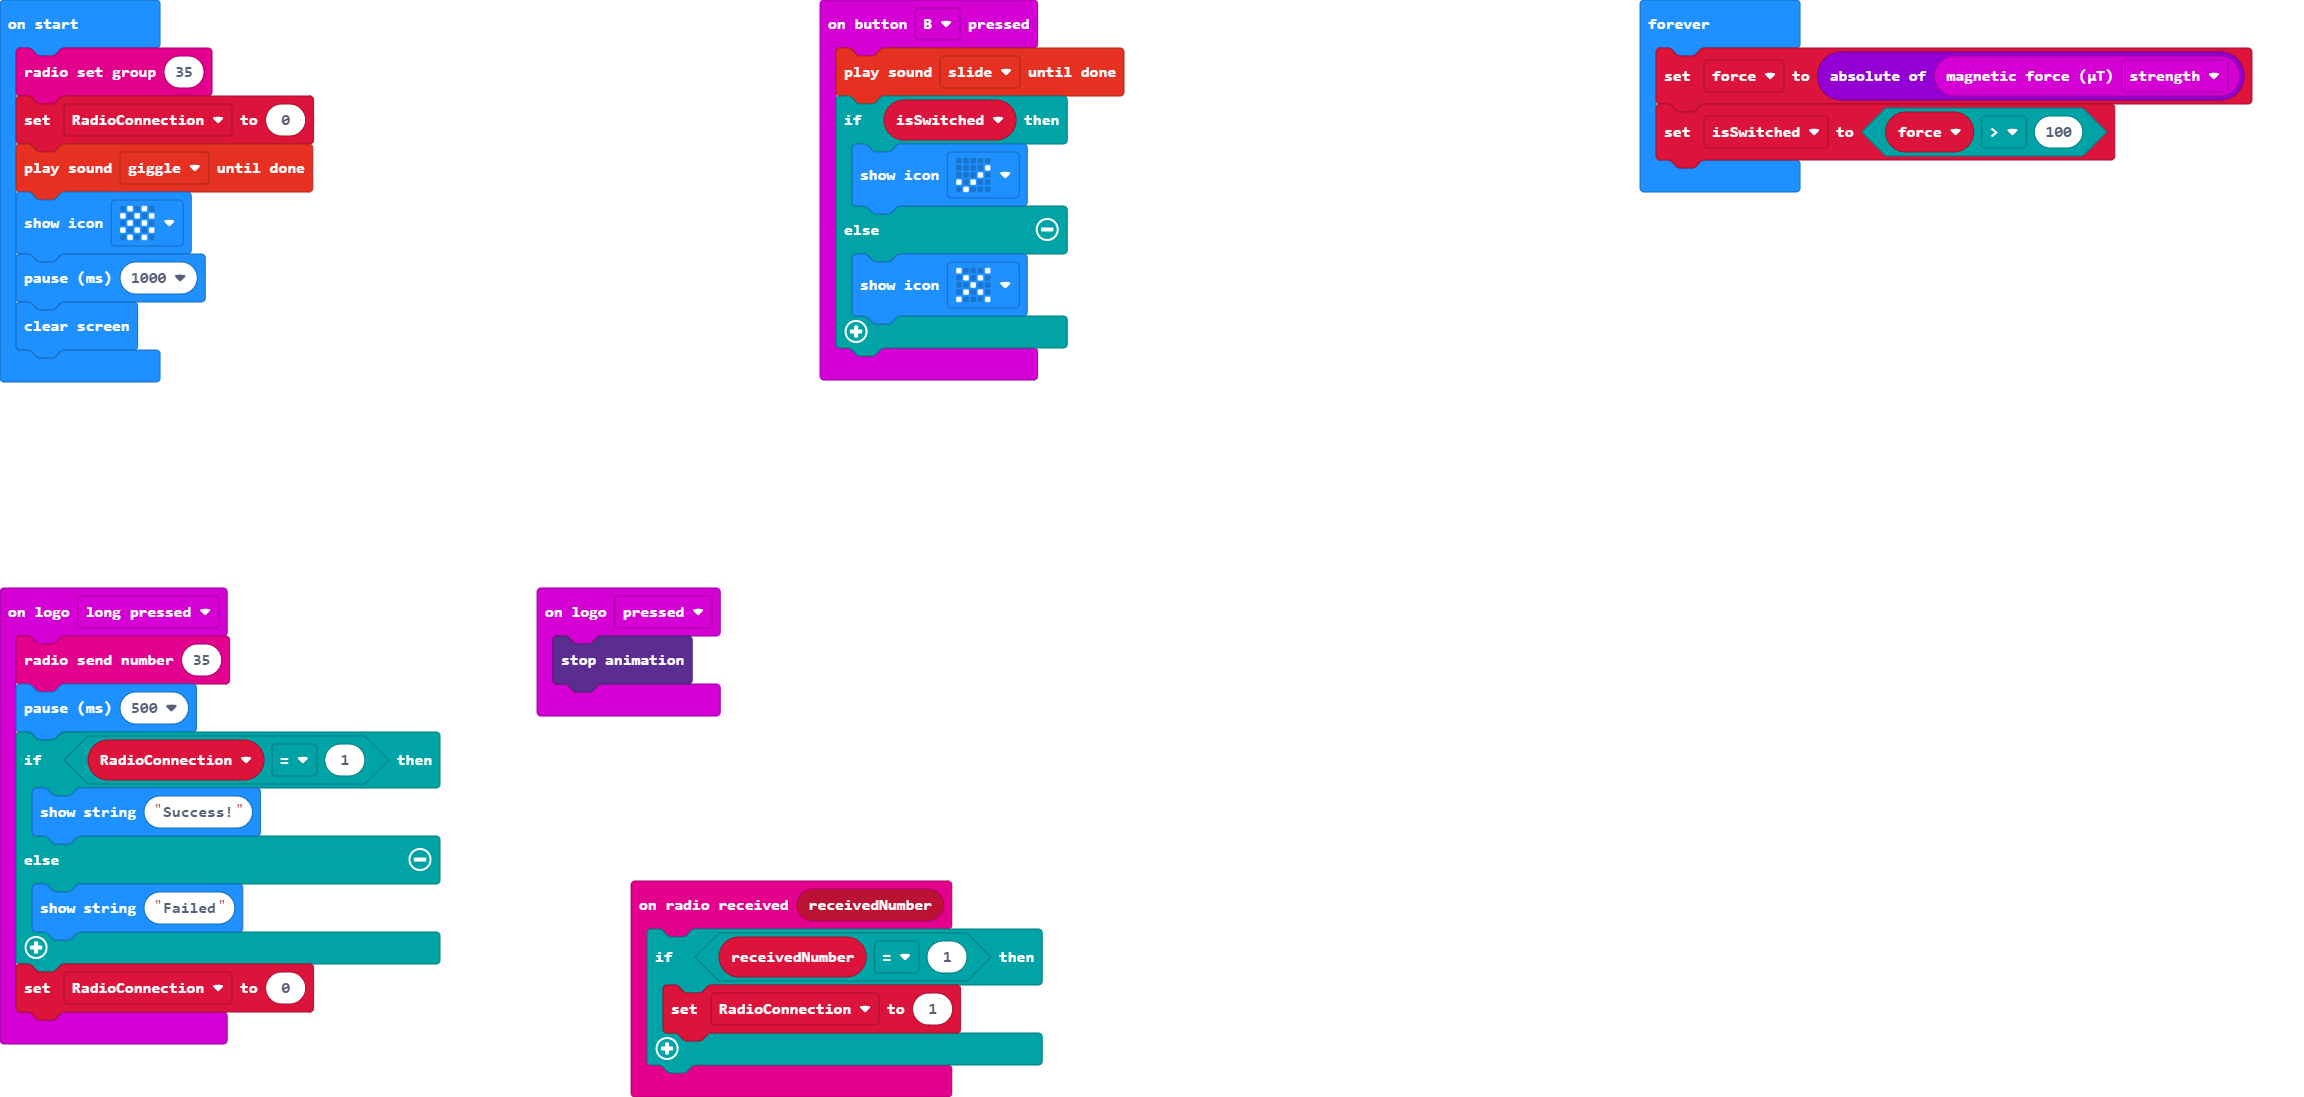
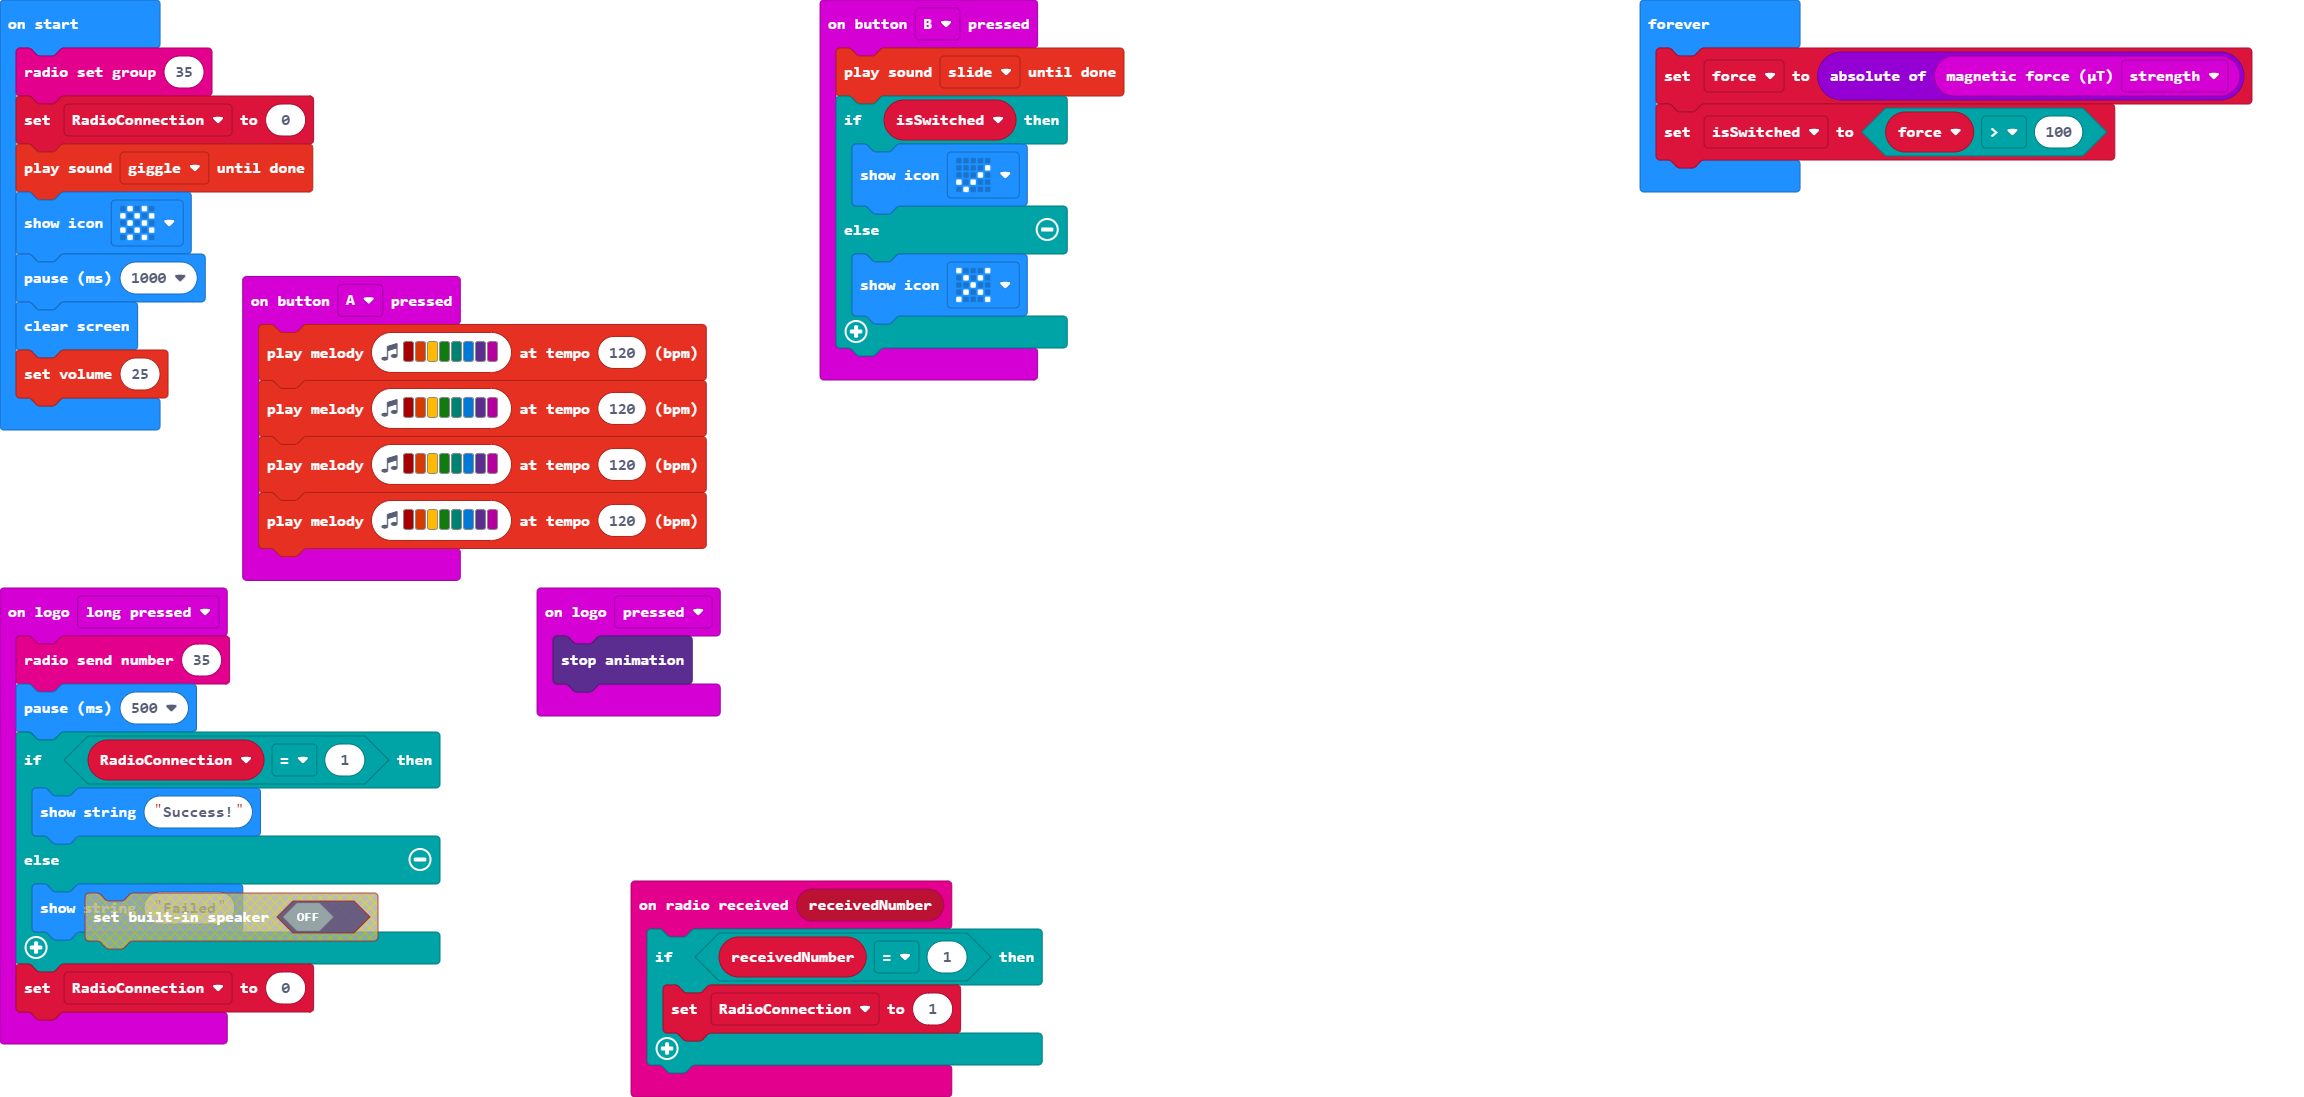
Update main.blocks, main.ts

Changed region(s): [[0.0, 0.2479, 0.3125, 0.5269], [0.0312, 0.8058, 0.1875, 0.8678]]

diff --git a/main.ts b/main.ts
@@ -16,6 +16,12 @@ input.onLogoEvent(TouchButtonEvent.LongPressed, function () {
     }
     RadioConnection = 0
 })
+input.onButtonPressed(Button.A, function () {
+    music.playMelody("C5 B A G F E D C ", 120)
+    music.playMelody("C5 B A G F E D C ", 120)
+    music.playMelody("C5 B A G F E D C ", 120)
+    music.playMelody("C5 B A G F E D C ", 120)
+})
 input.onButtonPressed(Button.B, function () {
     soundExpression.slide.playUntilDone()
     if (isSwitched) {
@@ -36,6 +42,7 @@ soundExpression.giggle.playUntilDone()
 basic.showIcon(IconNames.Chessboard)
 basic.pause(1000)
 basic.clearScreen()
+music.setVolume(25)
 basic.forever(function () {
     force = Math.abs(input.magneticForce(Dimension.Strength))
     isSwitched = force > 100
